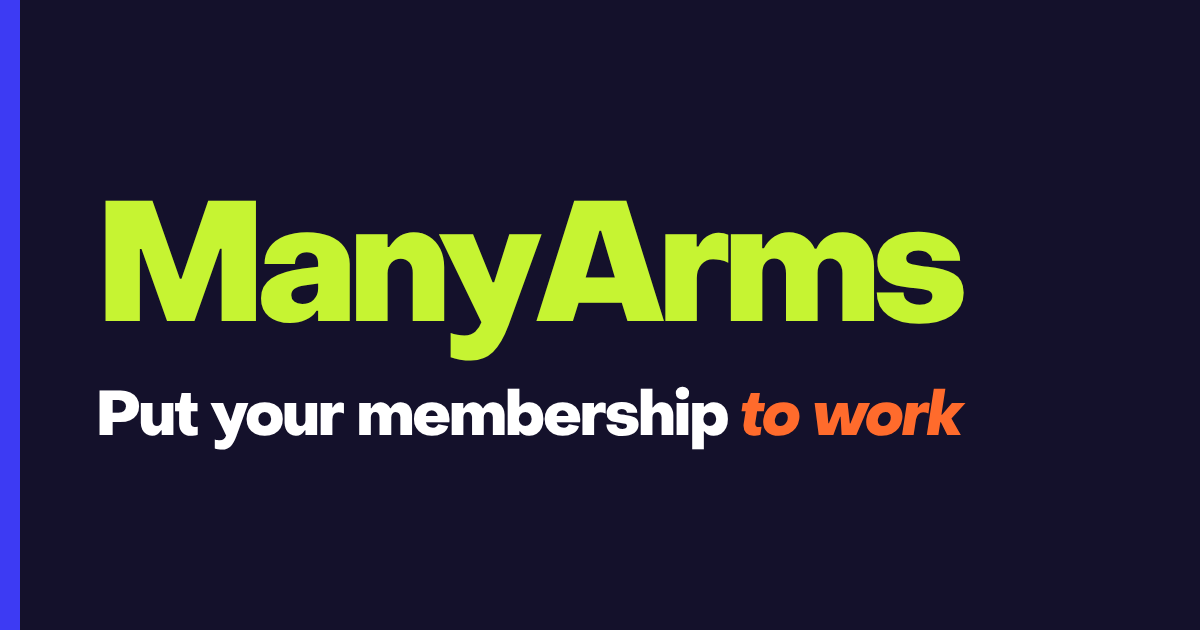
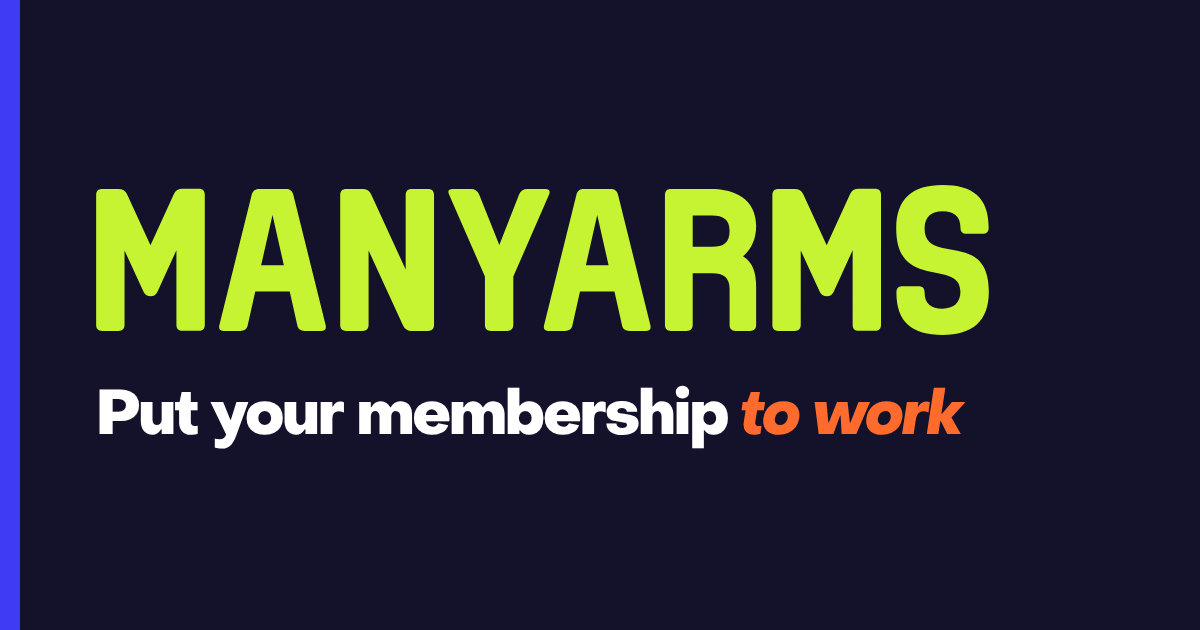
Heilo Champion wordmark, and production config for manyarms.app
The wordmark, favicon, icons and share card are drawn from Heilo Champion
Regular. The production database id is set, and ADMIN_EMAILS becomes a
secret so no personal address is committed.

Claude-Session: https://claude.ai/code/session_01DbpmQbh7ZBrk1A662GRzUB

diff --git a/src/web/Wordmark.tsx b/src/web/Wordmark.tsx
@@ -1,4 +1,5 @@
-// The ManyArms wordmark, drawn from PP Object Sans Heavy with -21 units of tracking. Kept as outlines so it
+// The manyarms wordmark, drawn from Heilo Champion (Fateh.Lab, desktop license) with its own kerning.
+// The font has only capitals, so the mark reads MANYARMS. Kept as outlines so it
 // never waits on the font to load. Colour follows the surrounding text.
 // Regenerate with the same outlines in public/wordmark.svg.
 
@@ -11,8 +12,8 @@ export function Wordmark({ height = 32 }: { height?: number }) {
     return <span style={{ display: 'block', fontFamily: FONT_DISPLAY, fontWeight: 800, fontSize: height * 0.95, lineHeight: 1, letterSpacing: '-0.03em' }}>{BRAND.name}</span>;
   }
   return (
-    <svg viewBox="57 -716 5276 951" height={height} role="img" aria-label={BRAND.name} style={{ display: 'block' }}>
-      <path fill="currentColor" d="M261 0H57V-716H336L499 -252H509L668 -716H952V0H748V-430H738L586 0H423L271 -429H261ZM1007.0 -136Q1007.0 -210 1068.0 -252.5Q1129.0 -295 1257.0 -312L1347.0 -323V-346Q1347.0 -375 1329.0 -392.5Q1311.0 -410 1279.0 -410Q1248.0 -410 1228.5 -391.0Q1209.0 -372 1209.0 -340H1028.0Q1028.0 -397 1059.0 -440.0Q1090.0 -483 1147.5 -506.0Q1205.0 -529 1281.0 -529Q1357.0 -529 1414.5 -505.5Q1472.0 -482 1503.5 -439.0Q1535.0 -396 1535.0 -339V0H1347.0V-61H1337.0Q1316.0 -26 1273.5 -7.0Q1231.0 12 1179.0 12Q1101.0 12 1054.0 -27.5Q1007.0 -67 1007.0 -136ZM1347.0 -193V-224L1264.0 -212Q1187.0 -202 1187.0 -154Q1187.0 -130 1204.5 -115.5Q1222.0 -101 1252.0 -101Q1294.0 -101 1320.5 -127.0Q1347.0 -153 1347.0 -193ZM1596.0 0V-516H1783.0V-440H1793.0Q1824.0 -486 1858.5 -507.0Q1893.0 -528 1938.0 -528Q1991.0 -528 2032.5 -501.5Q2074.0 -475 2097.0 -428.0Q2120.0 -381 2120.0 -322V0H1933.0V-287Q1933.0 -325 1913.5 -348.0Q1894.0 -371 1861.0 -371Q1828.0 -371 1805.5 -346.5Q1783.0 -322 1783.0 -284V0ZM2183.0 216V71Q2199.0 78 2222.0 82.0Q2245.0 86 2265.0 86Q2305.0 86 2329.5 64.0Q2354.0 42 2366.0 8L2113.0 -516H2316.0L2432.0 -231H2442.0L2532.0 -516H2724.0L2528.0 24Q2487.0 134 2435.0 184.5Q2383.0 235 2303.0 235Q2273.0 235 2238.5 230.0Q2204.0 225 2183.0 216ZM2934.0 0H2717.0L2942.0 -716H3252.0L3476.0 0H3259.0L3225.0 -109H2968.0ZM3092.0 -537 3010.0 -259H3184.0L3102.0 -537ZM3509.0 0V-516H3695.0V-443H3706.0Q3723.0 -481 3755.0 -503.5Q3787.0 -526 3826.0 -526Q3857.0 -526 3883.0 -513V-347Q3861.0 -357 3836.0 -362.5Q3811.0 -368 3793.0 -368Q3750.0 -368 3723.0 -337.0Q3696.0 -306 3696.0 -256V0ZM3923.0 0V-516H4109.0V-433H4120.0Q4143.0 -477 4182.0 -503.0Q4221.0 -529 4269.0 -529Q4319.0 -529 4361.0 -501.5Q4403.0 -474 4422.0 -430H4432.0Q4452.0 -476 4493.0 -502.0Q4534.0 -528 4589.0 -528Q4643.0 -528 4685.0 -503.0Q4727.0 -478 4751.0 -432.5Q4775.0 -387 4775.0 -328V0H4587.0V-286Q4587.0 -322 4567.0 -346.5Q4547.0 -371 4513.0 -372Q4479.0 -372 4459.0 -348.0Q4439.0 -324 4439.0 -286V0H4251.0V-286Q4251.0 -325 4232.0 -348.5Q4213.0 -372 4181.0 -372Q4148.0 -372 4129.0 -348.5Q4110.0 -325 4110.0 -286V0ZM4816.0 -170H4975.0Q4975.0 -137 5001.5 -117.0Q5028.0 -97 5072.0 -97Q5105.0 -97 5126.0 -110.5Q5147.0 -124 5147.0 -147Q5147.0 -172 5123.0 -181.0Q5099.0 -190 5049.0 -195Q4978.0 -202 4933.5 -212.0Q4889.0 -222 4854.0 -255.5Q4819.0 -289 4819.0 -355Q4819.0 -436 4885.5 -484.0Q4952.0 -532 5063.0 -532Q5134.0 -532 5191.0 -510.5Q5248.0 -489 5280.0 -450.0Q5312.0 -411 5312.0 -359H5146.0Q5145.0 -386 5122.0 -402.5Q5099.0 -419 5063.0 -419Q5031.0 -419 5011.0 -406.0Q4991.0 -393 4991.0 -372Q4991.0 -349 5016.5 -340.5Q5042.0 -332 5100.0 -325Q5107.0 -325 5121.0 -323Q5215.0 -313 5274.0 -281.0Q5333.0 -249 5333.0 -168Q5333.0 -82 5262.0 -32.5Q5191.0 17 5068.0 17Q4952.0 17 4884.0 -33.0Q4816.0 -83 4816.0 -170Z" />
+    <svg viewBox="50 -720 4404 740" height={height} role="img" aria-label={BRAND.name} style={{ display: 'block' }}>
+      <path fill="currentColor" d="M285 -191C292 -177 303 -171 319 -171C335 -171 345 -178 352 -192L446 -398V-31C446 -11 456 -1 476 -1H556C576 -1 586 -11 586 -31V-671C586 -691 576 -701 556 -701H476C456 -701 441 -692 433 -674L318 -423L203 -673C195 -691 180 -700 160 -700H80C60 -700 50 -690 50 -670V-30C50 -10 60 0 80 0H160C180 0 190 -10 190 -30V-397ZM658.0 -29C653.0 -9 661.0 0 681.0 0H761.0C781.0 0 794.0 -9 798.0 -29L835.0 -194H1005.0L1042.0 -29C1046.0 -9 1059.0 0 1079.0 0H1159.0C1179.0 0 1187.0 -9 1182.0 -29L1023.0 -671C1018.0 -691 1006.0 -700 986.0 -700H854.0C834.0 -700 822.0 -691 817.0 -671ZM864.0 -324 920.0 -572 976.0 -324ZM1564.0 -27C1572.0 -9 1587.0 0 1607.0 0H1687.0C1707.0 0 1717.0 -10 1717.0 -30V-670C1717.0 -690 1707.0 -700 1687.0 -700H1607.0C1587.0 -700 1577.0 -690 1577.0 -670V-303L1407.0 -673C1399.0 -691 1384.0 -700 1364.0 -700H1284.0C1264.0 -700 1254.0 -690 1254.0 -670V-30C1254.0 -10 1264.0 0 1284.0 0H1364.0C1384.0 0 1394.0 -10 1394.0 -30V-397ZM2284.0 -672C2292.0 -690 2286.0 -700 2266.0 -700H2177.0C2157.0 -700 2143.0 -691 2136.0 -672L2039.0 -424L1940.0 -672C1933.0 -691 1919.0 -700 1899.0 -700H1809.0C1789.0 -700 1783.0 -691 1791.0 -673L1968.0 -268V-30C1968.0 -10 1978.0 0 1998.0 0H2078.0C2098.0 0 2108.0 -10 2108.0 -30V-268ZM2260.0 -29C2255.0 -9 2263.0 0 2283.0 0H2363.0C2383.0 0 2396.0 -9 2400.0 -29L2437.0 -194H2607.0L2644.0 -29C2648.0 -9 2661.0 0 2681.0 0H2761.0C2781.0 0 2789.0 -9 2784.0 -29L2625.0 -671C2620.0 -691 2608.0 -700 2588.0 -700H2456.0C2436.0 -700 2424.0 -691 2419.0 -671ZM2466.0 -324 2522.0 -572 2578.0 -324ZM2856.0 -30C2856.0 -10 2866.0 0 2886.0 0H2963.0C2983.0 0 2993.0 -10 2993.0 -30V-285H3089.0C3145.0 -285 3175.0 -265 3175.0 -207V-30C3175.0 -10 3185.0 0 3205.0 0H3276.0C3296.0 0 3306.0 -10 3306.0 -30V-217C3306.0 -295 3286.0 -340 3241.0 -368C3281.0 -401 3306.0 -453 3306.0 -518C3306.0 -649 3202.0 -700 3086.0 -700H2886.0C2866.0 -700 2856.0 -690 2856.0 -670ZM3089.0 -570C3144.0 -570 3175.0 -550 3175.0 -493C3175.0 -435 3145.0 -415 3089.0 -415H2993.0V-570ZM3621.0 -191C3628.0 -177 3639.0 -171 3655.0 -171C3671.0 -171 3681.0 -178 3688.0 -192L3782.0 -398V-31C3782.0 -11 3792.0 -1 3812.0 -1H3892.0C3912.0 -1 3922.0 -11 3922.0 -31V-671C3922.0 -691 3912.0 -701 3892.0 -701H3812.0C3792.0 -701 3777.0 -692 3769.0 -674L3654.0 -423L3539.0 -673C3531.0 -691 3516.0 -700 3496.0 -700H3416.0C3396.0 -700 3386.0 -690 3386.0 -670V-30C3386.0 -10 3396.0 0 3416.0 0H3496.0C3516.0 0 3526.0 -10 3526.0 -30V-397ZM3997.0 -506C3997.0 -194 4314.0 -358 4314.0 -194C4314.0 -136 4278.0 -110 4225.0 -110C4169.0 -110 4137.0 -134 4137.0 -191C4137.0 -211 4127.0 -221 4107.0 -221H4028.0C4008.0 -221 3998.0 -211 3998.0 -191V-188C3998.0 -43 4075.0 20 4226.0 20C4372.0 20 4454.0 -46 4454.0 -194C4454.0 -505 4137.0 -320 4137.0 -506C4137.0 -564 4173.0 -590 4226.0 -590C4282.0 -590 4314.0 -566 4314.0 -509C4314.0 -489 4324.0 -479 4344.0 -479H4423.0C4443.0 -479 4453.0 -489 4453.0 -509V-512C4453.0 -657 4376.0 -720 4225.0 -720C4079.0 -720 3997.0 -654 3997.0 -506Z" />
     </svg>
   );
 }

diff --git a/scripts/og-card.html b/scripts/og-card.html
@@ -12,8 +12,7 @@
          font-family: 'Neue Montreal', sans-serif; overflow: hidden; }
   .card { width: 100%; height: 100%; padding: 84px 96px; display: flex; flex-direction: column;
           justify-content: center; gap: 44px; position: relative; }
-  .mark { font-family: 'Object Sans', sans-serif; font-weight: 800; font-size: 168px;
-          line-height: 0.9; letter-spacing: -0.045em; color: #C6F432; }
+  .mark { display: block; height: 150px; width: 893px; }
   .tag { font-family: 'Object Sans', sans-serif; font-weight: 800; font-size: 62px;
          line-height: 1.05; letter-spacing: -0.03em; color: #FFFFFF; }
   .tag em { font-style: italic; color: #FF6B2C; }
@@ -23,7 +22,7 @@
 <body>
   <div class="card">
     <div class="rule"></div>
-    <div class="mark">ManyArms</div>
+    <svg class="mark" viewBox="50 -720 4404 740" role="img" aria-label="ManyArms"><path fill="#C6F432" d="M285 -191C292 -177 303 -171 319 -171C335 -171 345 -178 352 -192L446 -398V-31C446 -11 456 -1 476 -1H556C576 -1 586 -11 586 -31V-671C586 -691 576 -701 556 -701H476C456 -701 441 -692 433 -674L318 -423L203 -673C195 -691 180 -700 160 -700H80C60 -700 50 -690 50 -670V-30C50 -10 60 0 80 0H160C180 0 190 -10 190 -30V-397ZM658.0 -29C653.0 -9 661.0 0 681.0 0H761.0C781.0 0 794.0 -9 798.0 -29L835.0 -194H1005.0L1042.0 -29C1046.0 -9 1059.0 0 1079.0 0H1159.0C1179.0 0 1187.0 -9 1182.0 -29L1023.0 -671C1018.0 -691 1006.0 -700 986.0 -700H854.0C834.0 -700 822.0 -691 817.0 -671ZM864.0 -324 920.0 -572 976.0 -324ZM1564.0 -27C1572.0 -9 1587.0 0 1607.0 0H1687.0C1707.0 0 1717.0 -10 1717.0 -30V-670C1717.0 -690 1707.0 -700 1687.0 -700H1607.0C1587.0 -700 1577.0 -690 1577.0 -670V-303L1407.0 -673C1399.0 -691 1384.0 -700 1364.0 -700H1284.0C1264.0 -700 1254.0 -690 1254.0 -670V-30C1254.0 -10 1264.0 0 1284.0 0H1364.0C1384.0 0 1394.0 -10 1394.0 -30V-397ZM2284.0 -672C2292.0 -690 2286.0 -700 2266.0 -700H2177.0C2157.0 -700 2143.0 -691 2136.0 -672L2039.0 -424L1940.0 -672C1933.0 -691 1919.0 -700 1899.0 -700H1809.0C1789.0 -700 1783.0 -691 1791.0 -673L1968.0 -268V-30C1968.0 -10 1978.0 0 1998.0 0H2078.0C2098.0 0 2108.0 -10 2108.0 -30V-268ZM2260.0 -29C2255.0 -9 2263.0 0 2283.0 0H2363.0C2383.0 0 2396.0 -9 2400.0 -29L2437.0 -194H2607.0L2644.0 -29C2648.0 -9 2661.0 0 2681.0 0H2761.0C2781.0 0 2789.0 -9 2784.0 -29L2625.0 -671C2620.0 -691 2608.0 -700 2588.0 -700H2456.0C2436.0 -700 2424.0 -691 2419.0 -671ZM2466.0 -324 2522.0 -572 2578.0 -324ZM2856.0 -30C2856.0 -10 2866.0 0 2886.0 0H2963.0C2983.0 0 2993.0 -10 2993.0 -30V-285H3089.0C3145.0 -285 3175.0 -265 3175.0 -207V-30C3175.0 -10 3185.0 0 3205.0 0H3276.0C3296.0 0 3306.0 -10 3306.0 -30V-217C3306.0 -295 3286.0 -340 3241.0 -368C3281.0 -401 3306.0 -453 3306.0 -518C3306.0 -649 3202.0 -700 3086.0 -700H2886.0C2866.0 -700 2856.0 -690 2856.0 -670ZM3089.0 -570C3144.0 -570 3175.0 -550 3175.0 -493C3175.0 -435 3145.0 -415 3089.0 -415H2993.0V-570ZM3621.0 -191C3628.0 -177 3639.0 -171 3655.0 -171C3671.0 -171 3681.0 -178 3688.0 -192L3782.0 -398V-31C3782.0 -11 3792.0 -1 3812.0 -1H3892.0C3912.0 -1 3922.0 -11 3922.0 -31V-671C3922.0 -691 3912.0 -701 3892.0 -701H3812.0C3792.0 -701 3777.0 -692 3769.0 -674L3654.0 -423L3539.0 -673C3531.0 -691 3516.0 -700 3496.0 -700H3416.0C3396.0 -700 3386.0 -690 3386.0 -670V-30C3386.0 -10 3396.0 0 3416.0 0H3496.0C3516.0 0 3526.0 -10 3526.0 -30V-397ZM3997.0 -506C3997.0 -194 4314.0 -358 4314.0 -194C4314.0 -136 4278.0 -110 4225.0 -110C4169.0 -110 4137.0 -134 4137.0 -191C4137.0 -211 4127.0 -221 4107.0 -221H4028.0C4008.0 -221 3998.0 -211 3998.0 -191V-188C3998.0 -43 4075.0 20 4226.0 20C4372.0 20 4454.0 -46 4454.0 -194C4454.0 -505 4137.0 -320 4137.0 -506C4137.0 -564 4173.0 -590 4226.0 -590C4282.0 -590 4314.0 -566 4314.0 -509C4314.0 -489 4324.0 -479 4344.0 -479H4423.0C4443.0 -479 4453.0 -489 4453.0 -509V-512C4453.0 -657 4376.0 -720 4225.0 -720C4079.0 -720 3997.0 -654 3997.0 -506Z"/></svg>
     <p class="tag">Put your membership <em>to work</em></p>
   </div>
 </body>

diff --git a/docs/aar-brand-and-old-positioning-2026-11-26.md b/docs/aar-brand-and-old-positioning-2026-11-26.md
@@ -67,3 +67,10 @@ No machine trace of this run was available for reconciliation.
 **Instruction (actual wording):** "new product is gonna be called EightArms or ManyArms (.app) deciding now", then "Many Arms is easier to say and could be fun to brand with a wordmark".
 **What changed:** `BRAND.name` is ManyArms. New wordmark outlines drawn from PP Object Sans Heavy with fontTools, at the old wordmark's tracking (checked by rebuilding the Volley outlines first). New favicon and app icons, share card and `public/wordmark.svg`. Link previews point at manyarms.app. Added an `[env.production]` block in `wrangler.toml` for manyarms.app, `scripts/deploy-production.sh`, which refuses to run until the database id and `ADMIN_EMAILS` are set, and the checklist `docs/launch/deploy.md`. Decision 0016 records the name. 60 tests pass.
 **Decisions made alone:** One word, ManyArms. The address plan. Keeping volleydemo.vloora.com alive. Leaving `ADMIN_EMAILS` empty in the repository, so no personal address is committed.
+
+## Follow-up: the Heilo Champion wordmark and the production deploy
+
+**Instruction (actual wording):** "go ahead with the deploy", then "found a wordmark logo for the product under its new name as manyarms (all lower case, one word)" with the Heilo Champion font kits, then "i have the logo already in non webfont too not just webont i have the desttop version".
+**What changed:** Created the production database `manyarms`, ran migrations 0001 to 0011, deployed `voluntold-production` to manyarms.app with the 15-minute schedule, and set the secrets APP_SECRET (generated, never shown), EMAIL_FROM and RESEND_API_KEY. That key is a new sending-only Resend key limited to mail.manyarms.app, passed straight to Cloudflare without being printed. `ADMIN_EMAILS` is now a secret instead of a committed variable; it isn't set yet. The wordmark, favicon, icons and share card are redrawn from Heilo Champion Regular with the font's kerning, under the owner's desktop license. The font files stay out of the repository.
+**Decisions made alone:** Regular over Slant. Keeping prose as "ManyArms". Making ADMIN_EMAILS a secret.
+**Open:** The owner proposed signup@mail.manyarms.app as the admin address, but that subdomain only sends, so it can't receive sign-in codes. The owner stopped a test sign-in email to Resend's test address partway, so delivery from production isn't confirmed. The Heilo font has only capitals, so the lowercase "manyarms" the owner described renders as MANYARMS.
